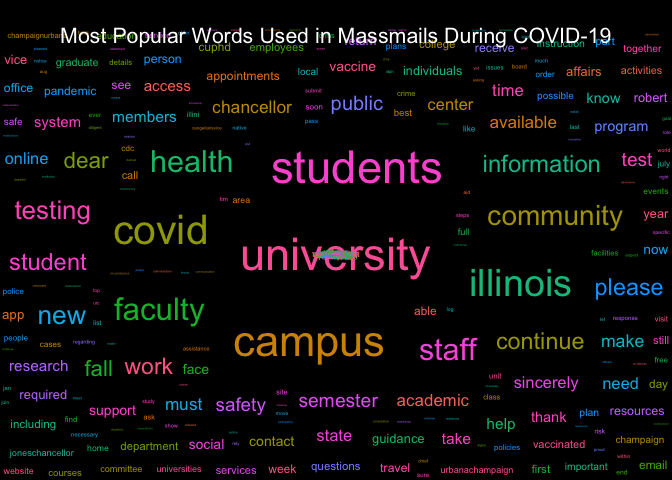
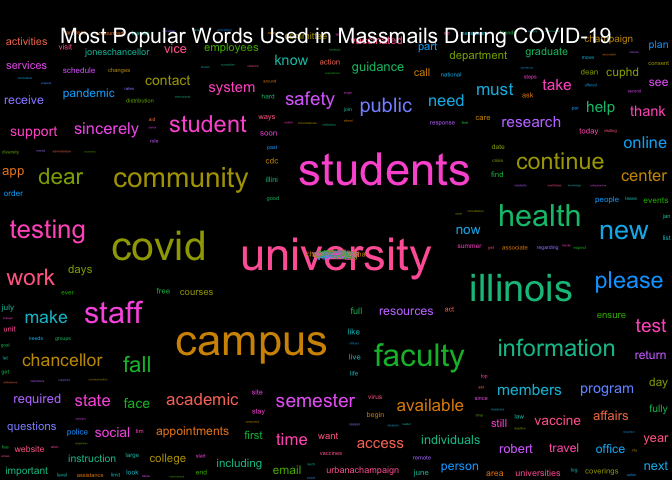
Re-build README.Rmd and Graphs

diff --git a/README.md b/README.md
@@ -17,7 +17,7 @@ The archive may be viewed here:
 
 <https://massmail.illinois.edu/massmailArchive>
 
-Data has **1397** observations and **7** variables:
+Data has **1398** observations and **7** variables:
 
   - `datetime`: Date and time when the email was sent in the form of
     `YYYY-MM-DD HMS` with either CDT or CST.
@@ -210,15 +210,15 @@ head(most_popular_words, 10) %>%
 
 | word        | freq |
 | :---------- | ---: |
-| university  | 1141 |
-| students    | 1056 |
-| campus      |  966 |
+| university  | 1145 |
+| students    | 1057 |
+| campus      |  967 |
 | covid       |  772 |
-| illinois    |  727 |
+| illinois    |  730 |
 | community   |  612 |
-| faculty     |  598 |
-| health      |  540 |
-| staff       |  478 |
+| faculty     |  601 |
+| health      |  541 |
+| staff       |  479 |
 | information |  473 |
 
 #### Wordcloud
